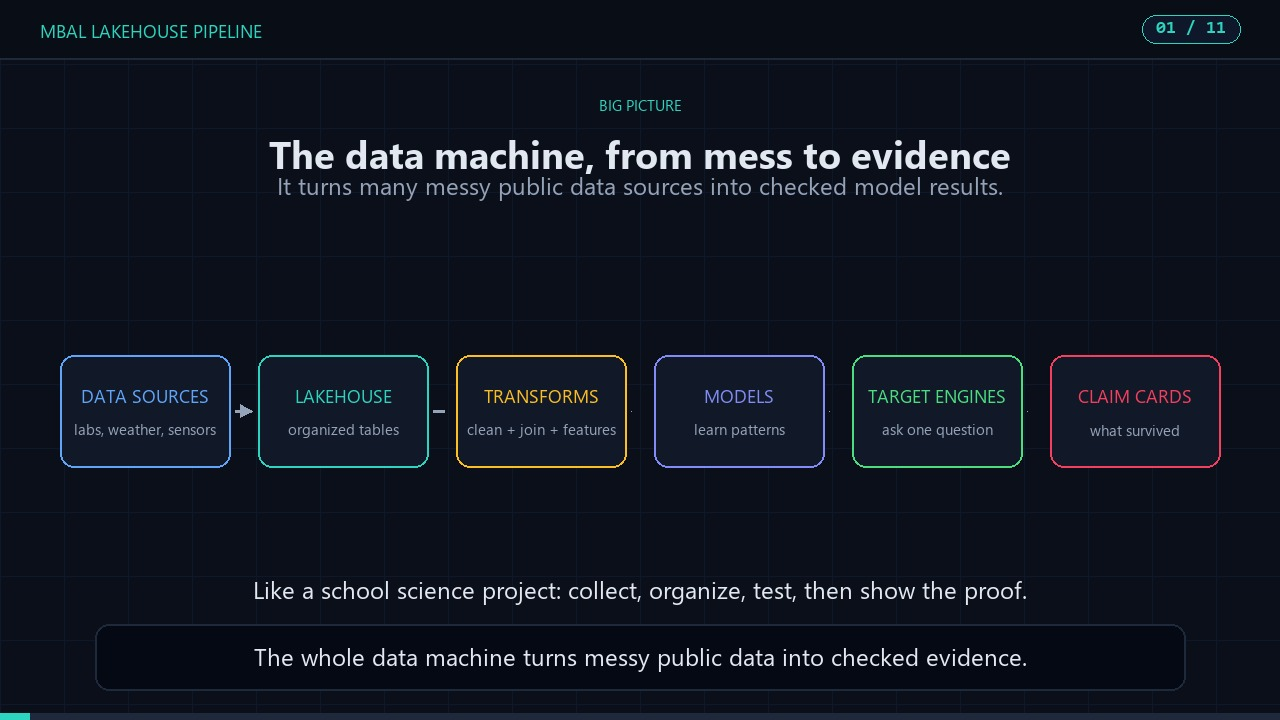
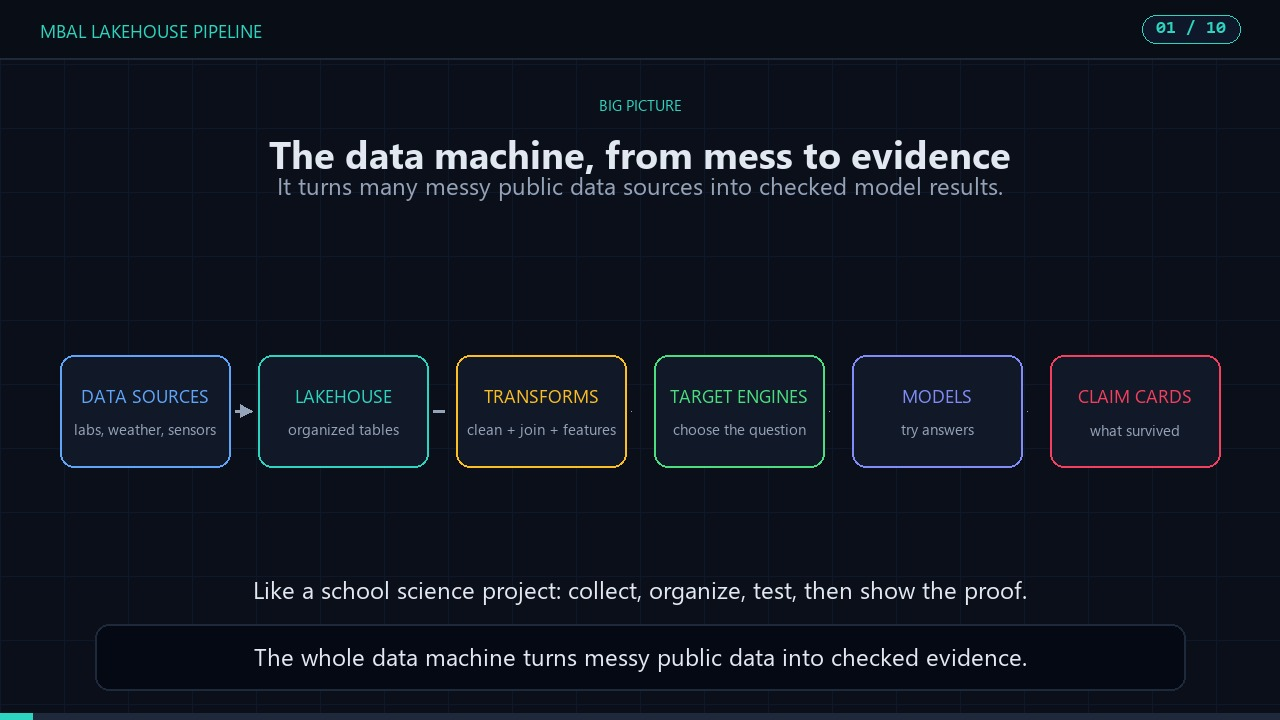
Update lakehouse explainer video

Changed region(s): [[0.5, 0.4889, 0.8125, 0.6722], [0.7812, 0.6111, 0.8125, 0.6417]]

diff --git a/lakehouse-pipeline-video.html b/lakehouse-pipeline-video.html
@@ -4,10 +4,10 @@
   <meta charset="utf-8">
   <meta name="viewport" content="width=device-width, initial-scale=1">
   <title>Lakehouse Pipeline Explainer</title>
-  <meta name="description" content="An eighth-grade-friendly animated explainer of the Monterey Bay AI Lab lakehouse, transformations, models, and target engines.">
+  <meta name="description" content="An eighth-grade-friendly animated explainer of the Monterey Bay AI Lab lakehouse, transformations, target engines, and model engines.">
   <meta property="og:type" content="video.other">
   <meta property="og:title" content="Lakehouse Pipeline Explainer">
-  <meta property="og:description" content="A narrated classroom-style walkthrough of how MBAL data enters the lakehouse, gets transformed, runs through model engines, and becomes evidence cards.">
+  <meta property="og:description" content="A narrated classroom-style walkthrough of how MBAL data enters the lakehouse, gets transformed, gets framed as target questions, runs through model engines, and becomes evidence cards.">
   <meta property="og:url" content="https://jdinneen.github.io/mbal-mission-control/lakehouse-pipeline-video.html">
   <meta property="og:image" content="https://jdinneen.github.io/mbal-mission-control/videos/lakehouse_pipeline_8th_grade_poster.jpg">
   <meta property="og:video" content="https://jdinneen.github.io/mbal-mission-control/videos/lakehouse_pipeline_8th_grade_narrated.mp4">
@@ -144,7 +144,7 @@
     <header>
       <div>
         <h1>Lakehouse Pipeline Explainer</h1>
-        <p>A classroom-style walkthrough of how MBAL data enters the lakehouse, gets transformed, lives in organized folders, runs through model engines, and becomes evidence cards.</p>
+        <p>A classroom-style walkthrough of how MBAL data enters the lakehouse, gets transformed, lives in organized folders, gets framed as target questions, runs through model engines, and becomes evidence cards.</p>
       </div>
       <nav class="actions" aria-label="Video links">
         <a class="button" href="videos/lakehouse_pipeline_8th_grade_narrated.mp4">Open Narrated MP4</a>